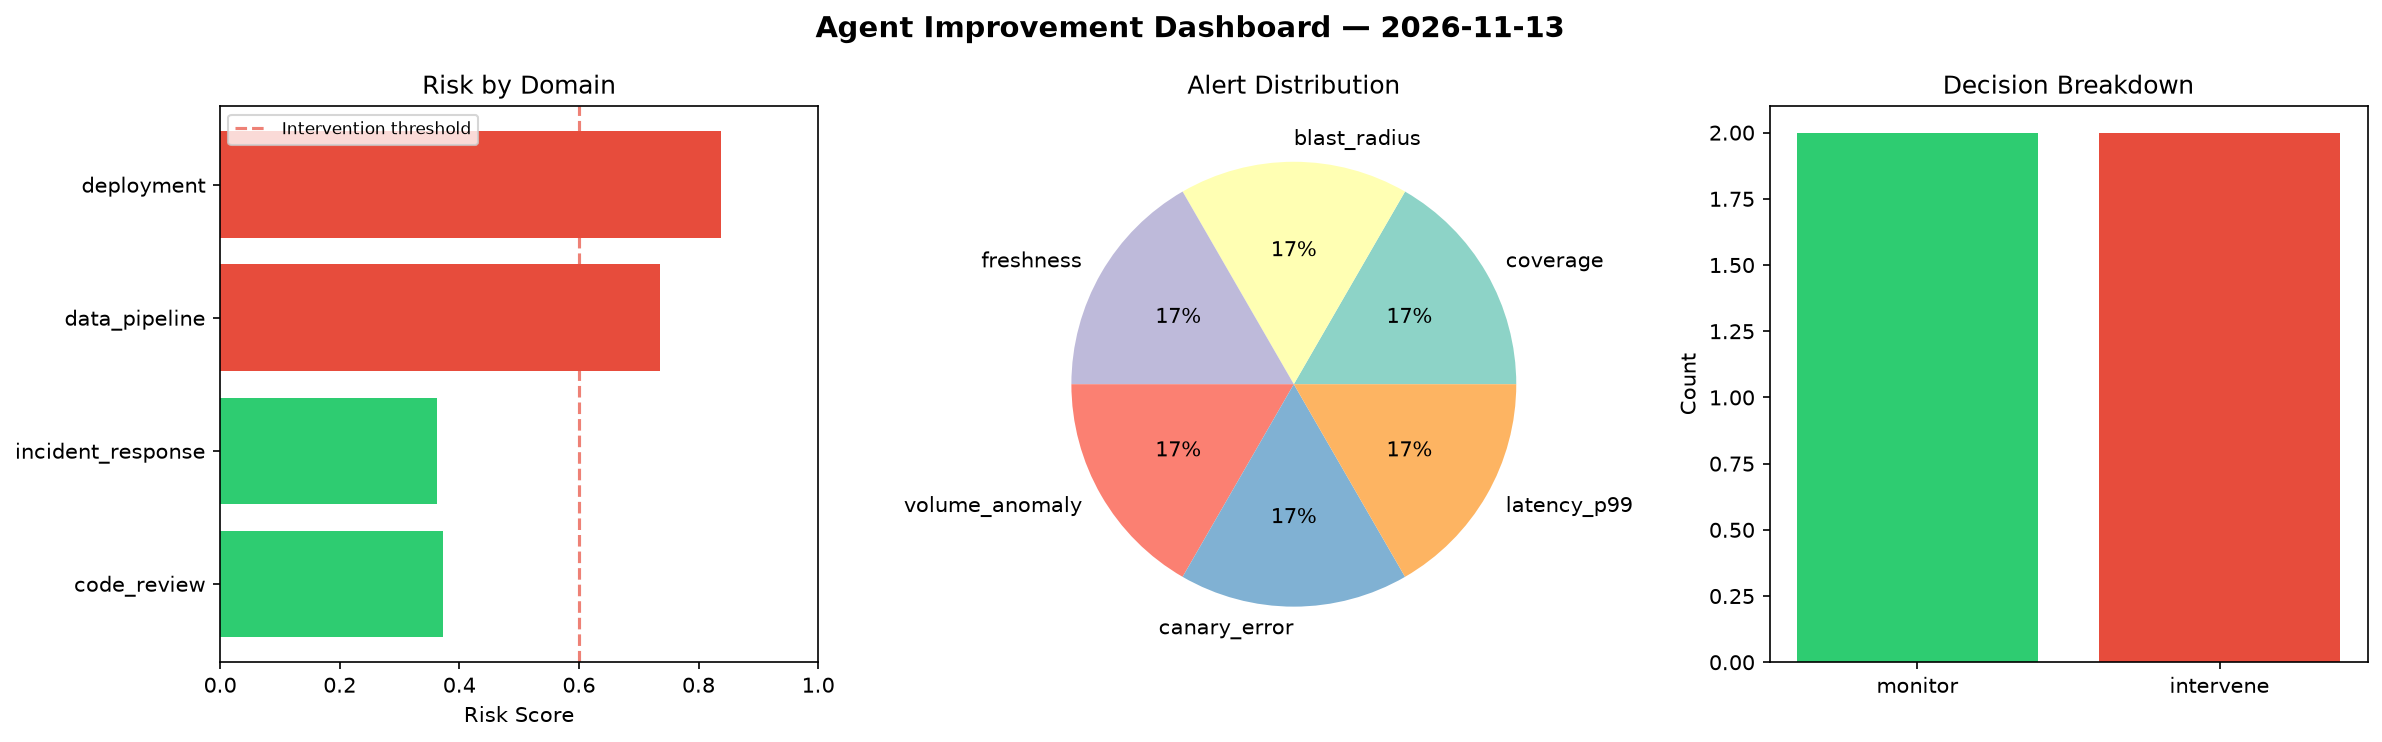
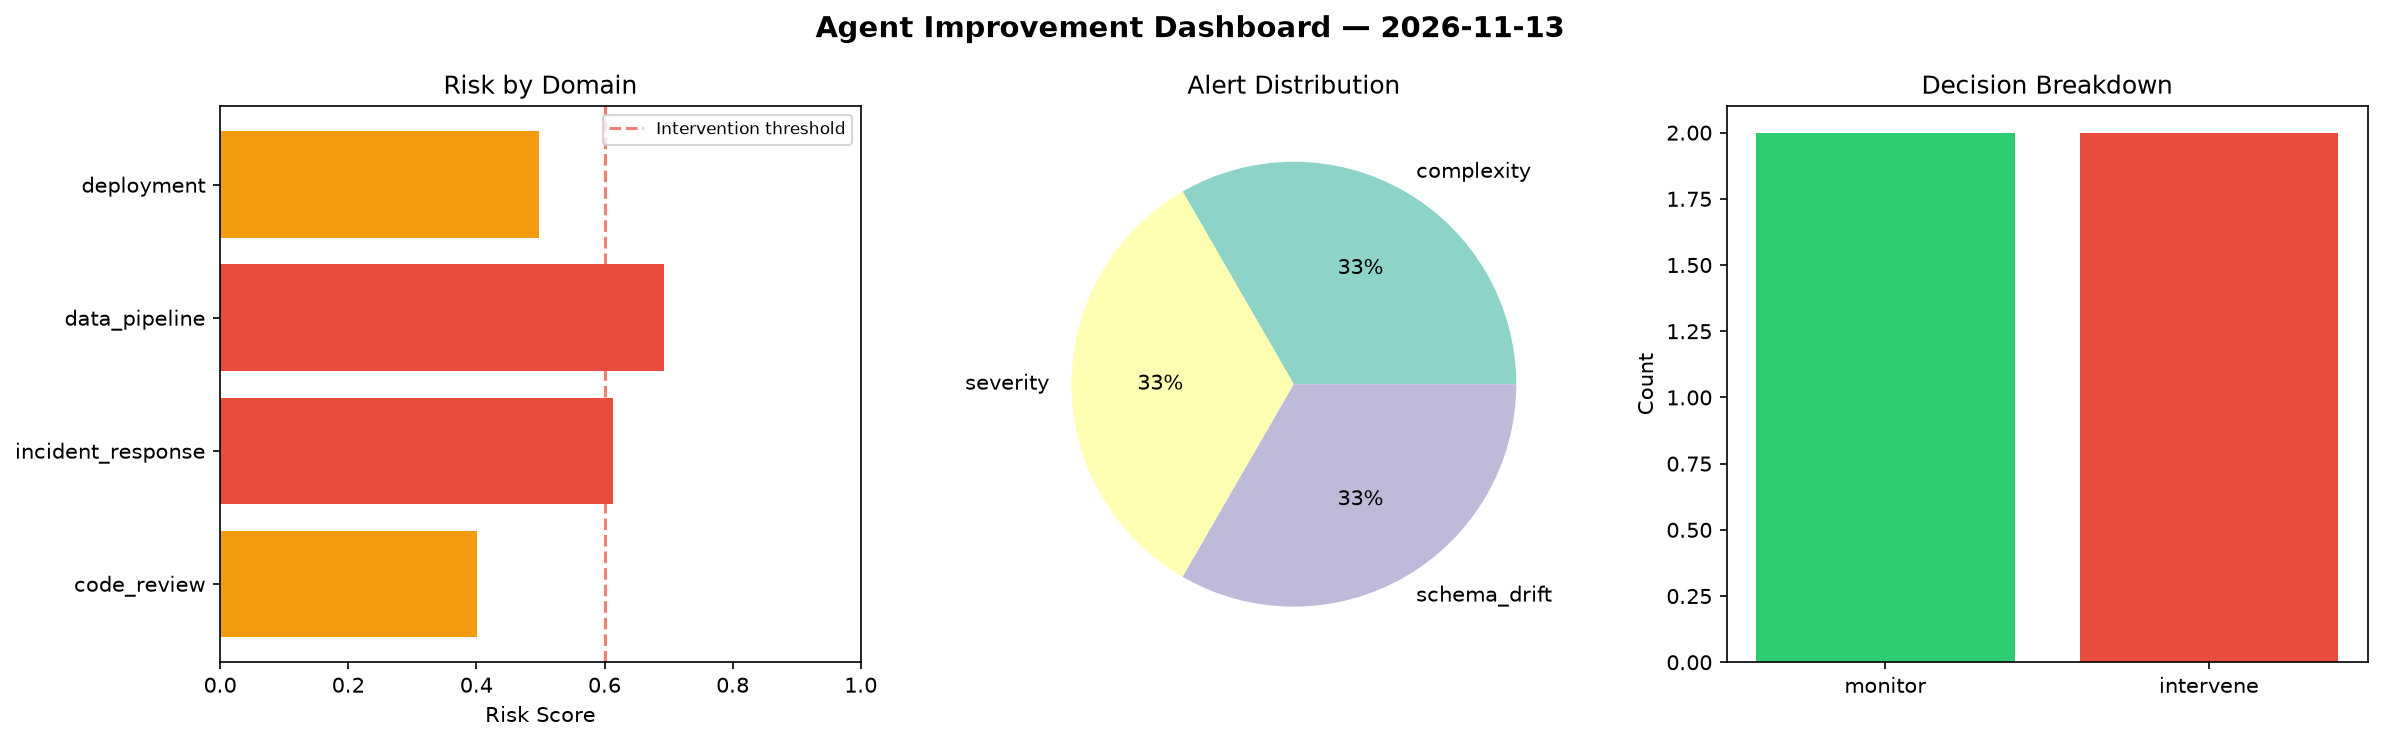
agent-improvement: daily cycle 2026-11-13T20:54

diff --git a/logs/2026-11-13.md b/logs/2026-11-13.md
@@ -1,6 +1,6 @@
 # Agent Improvement Report — 2026-11-13
 
-**Cycle ID:** `b1b780f1` | **Avg Risk:** 0.5774 | **Interventions:** 2/4
+**Cycle ID:** `e94aa1c2` | **Avg Risk:** 0.5514 | **Interventions:** 2/4
 
 ![Dashboard](2026-11-13_dashboard.png)
 
@@ -10,18 +10,18 @@
 
 | Domain | Risk Score | Decision | Alerts |
 |--------|-----------|----------|--------|
-| code_review | 0.3721 | monitor | coverage |
-| incident_response | 0.3632 | monitor | blast_radius |
-| data_pipeline | 0.7363 | intervene | freshness, volume_anomaly |
-| deployment | 0.838 | intervene | canary_error, latency_p99 |
+| code_review | 0.4015 | monitor | complexity |
+| incident_response | 0.6137 | intervene | severity |
+| data_pipeline | 0.6932 | intervene | schema_drift |
+| deployment | 0.4972 | monitor | none |
 
 ## Delta vs Yesterday
 
 | Domain | Today | Yesterday | Change |
 |--------|-------|-----------|--------|
-| code_review | 0.3721 | 0.6493 | 📉 -42.7% |
-| incident_response | 0.3632 | 0.5192 | 📉 -30.0% |
-| data_pipeline | 0.7363 | 0.6514 | 📈 13.0% |
-| deployment | 0.838 | 0.6886 | 📈 21.7% |
+| code_review | 0.4015 | 0.6493 | 📉 -38.2% |
+| incident_response | 0.6137 | 0.5192 | 📈 18.2% |
+| data_pipeline | 0.6932 | 0.6514 | 📈 6.4% |
+| deployment | 0.4972 | 0.6886 | 📉 -27.8% |
 
 **Refinement:** `{'adjustment': 'tighten_thresholds', 'trend': 'degrading', 'window': 4}`
